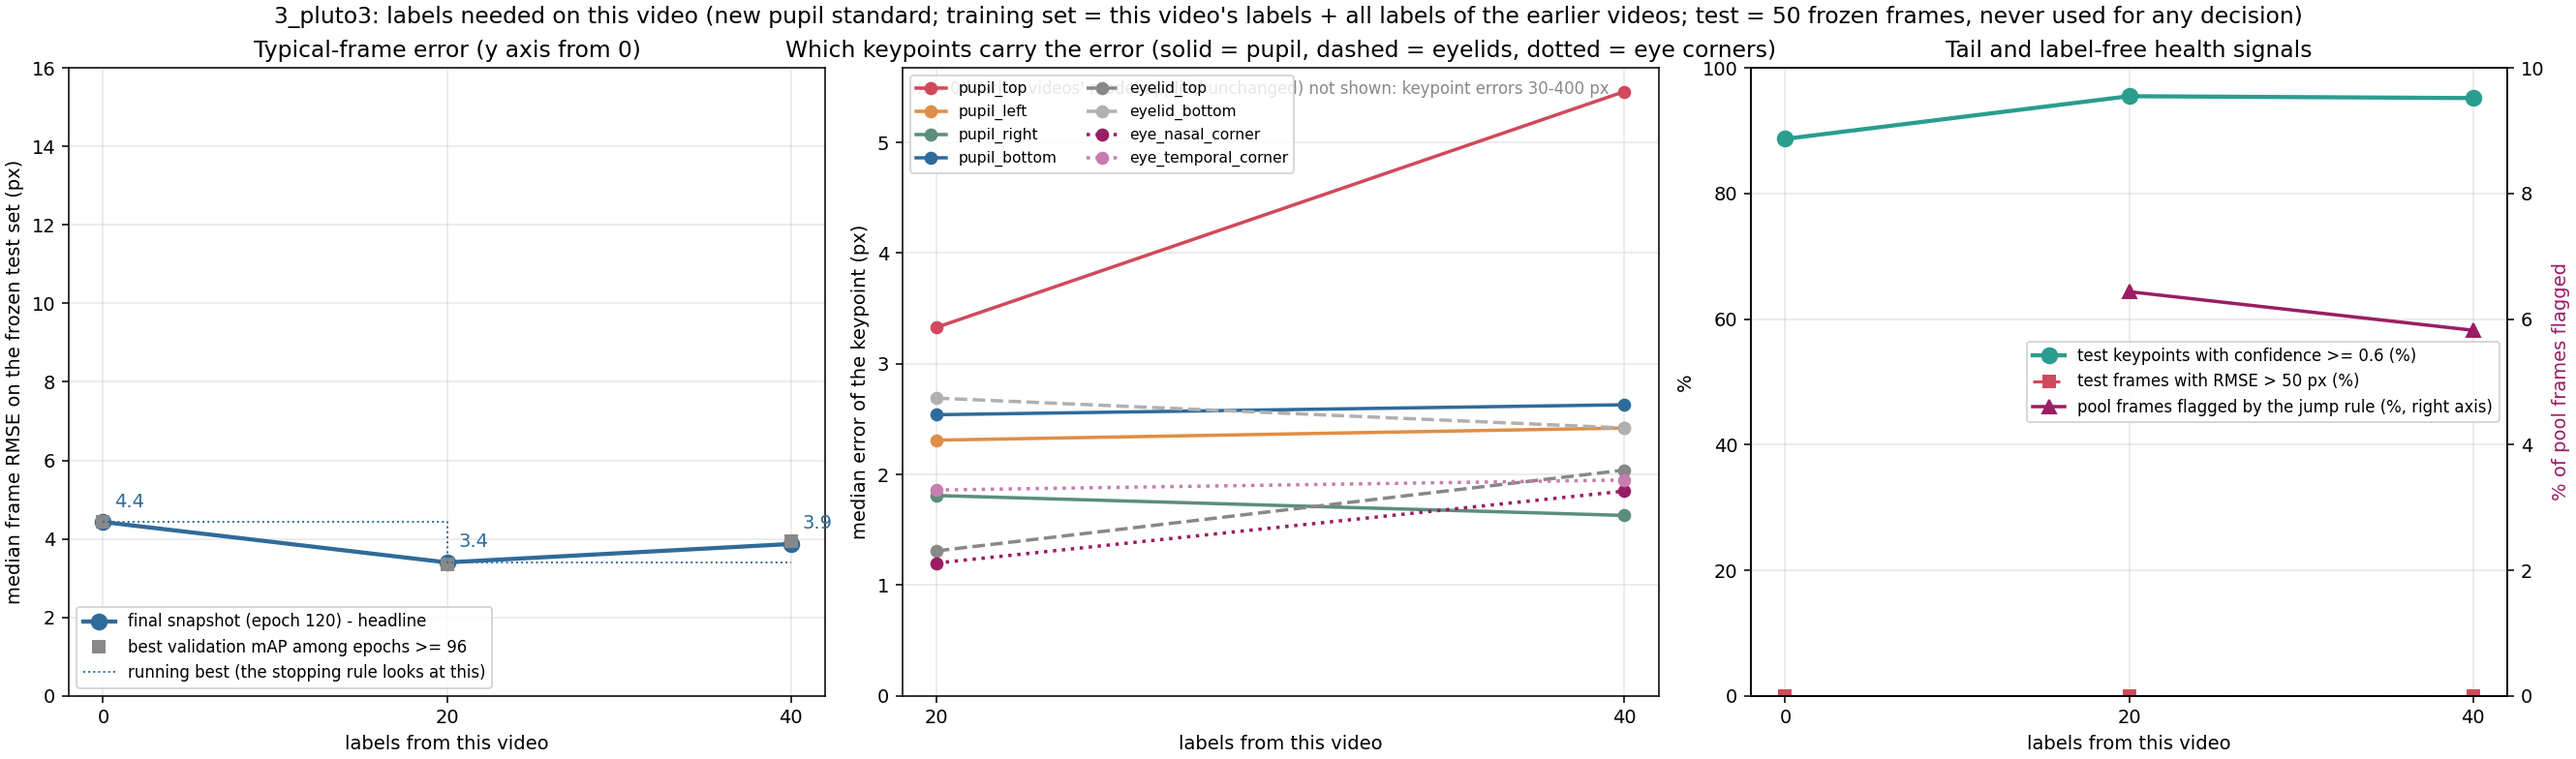
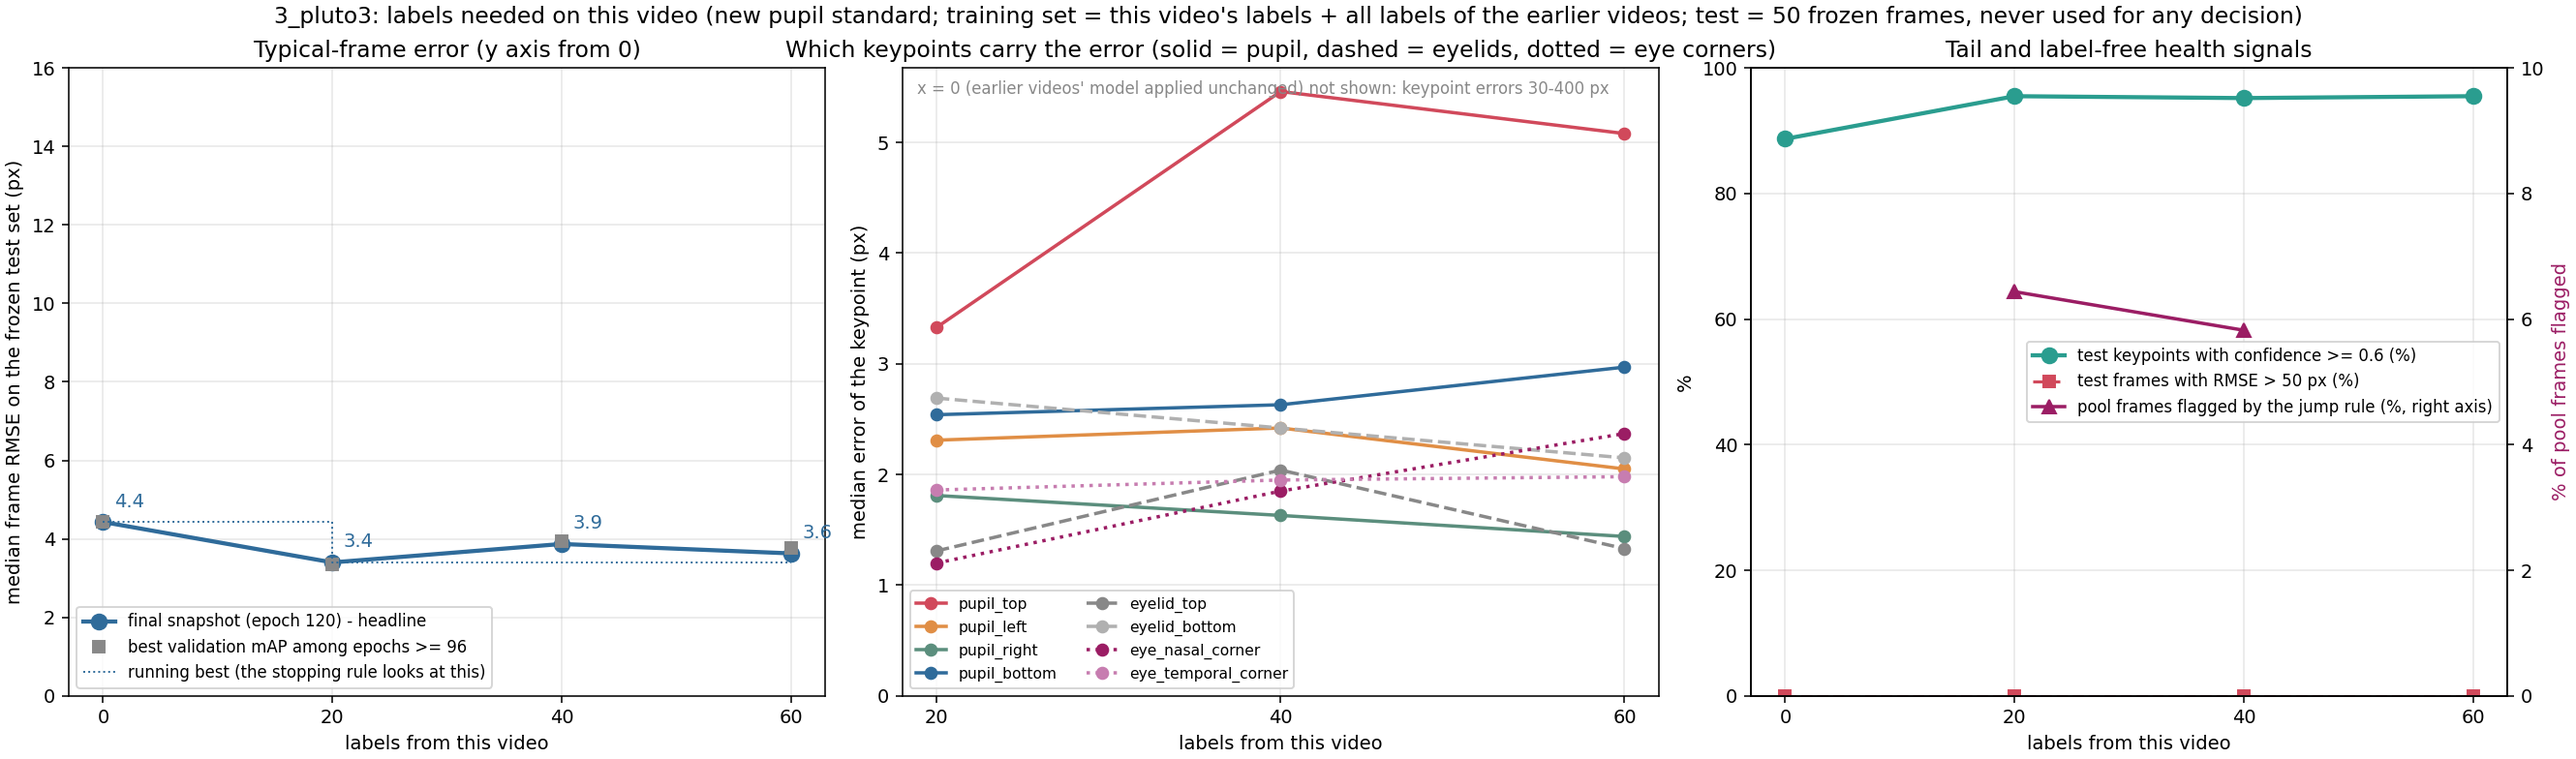
Video 3 (3_pluto3) step 3: 60 labels = 3.63 px; plateau rule fires (20 labels)
Step 3 (shuffle 423; 60 pluto3 labels + 260 prior labels): final snapshot 3.63 px
median, p90 10.2 (lowest of any step so far), 0% frames > 50 px, 96% confident.
Series 4.43 / 3.40 / 3.87 / 3.63 px: 40 and 60 labels did not improve the running
best -> plateau at 20 labels, as for videos 1 and 2. Across-video table updated.
Whole-video prediction and batch04 selection still running.

diff --git a/new_pupil_top_video_scaling/3_pluto3/results/README.md b/new_pupil_top_video_scaling/3_pluto3/results/README.md
@@ -6,8 +6,15 @@
 | 0 (video-2 step-3 model, 60 labels, applied unchanged) | 4.43 px | 23.2 | 0% | 89% | – |
 | 20 | **3.40 px** | 21.3 | 0% | 96% | 3,679 (6.4%) |
 | 40 | 3.87 px | 15.8 | 0% | 95% | 3,328 (5.8%) |
+| 60 | 3.63 px | 10.2 | 0% | 96% | (predicting) |
 
 Training set of step 1: 100 labels of video 0 + 100 of video 1 + 60 of video 2 + 20 of this video (280 frames).
 The test50 pre-labels came from the video-2 step-2 model (40 labels) and the labeler moved 50 of 398 points, so
 all scores of this video are anchored to that model wherever the labeler agreed with it (see the note in the
 video-1 README); the 0-label point uses a different (later) video-2 model, so it is not the pre-labeling model itself.
+
+Plateau rule (running best of the final-snapshot series, two consecutive steps with <= 3% improvement): neither the
+40- nor the 60-label step improved the running best of 3.40 px (20 labels), so the rule fired at 60 labels and the
+plateau point is **20 labels** - the third video in a row with a 20-label plateau, now at a 3-4 px floor. The tail
+kept improving (p90 21.3 -> 15.8 -> 10.2 px). With the 0-label point included in the series the conclusion is the
+same (0 -> 20 labels improved by 23%).

diff --git a/new_pupil_top_video_scaling/results/README.md b/new_pupil_top_video_scaling/results/README.md
@@ -15,7 +15,7 @@ snapshot with the best validation mAP after the first learning-rate drop (epochs
 | 0 `0_first5minvedio` | mouse A, 5.0 min | 0 | – / 12.93 / 13.00 / 12.04 / 13.07 / 12.29 | **60 labels** | 12.04 px |
 | 1 `1_20251031_Pluto_spont_1` | mouse B, 19.9 min | 100 (all of video 0) | 208.2 / 10.37 / 12.17 / 11.35 / 11.59 / 10.94 | **20 labels** | 10.37 px |
 | 2 `2_pluton2` | mouse B, 19.9 min (2nd recording) | 200 (videos 0 + 1) | 9.99 / 7.73 / 7.57 / 7.83 / 7.56 / – | **20 labels** (rule fired at 60; user stopped selecting at 60 labels on 2026-09-23; batch04 was already labeled and was trained + scored, no further selection) | 7.73 px |
-| 3 `3_pluto3` | mouse B, 19.9 min (3rd recording) | 260 (videos 0 + 1 + 60 of video 2) | 4.43 / 3.40 / 3.87 / – / – / – | in progress | |
+| 3 `3_pluto3` | mouse B, 19.9 min (3rd recording) | 260 (videos 0 + 1 + 60 of video 2) | 4.43 / 3.40 / 3.87 / 3.63 / – / – | **20 labels** (rule fired at 60) | 3.40 px |
 
 Notes
 - With 50 test frames the median moves by about 1 px between neighbouring steps from sampling alone, so the
